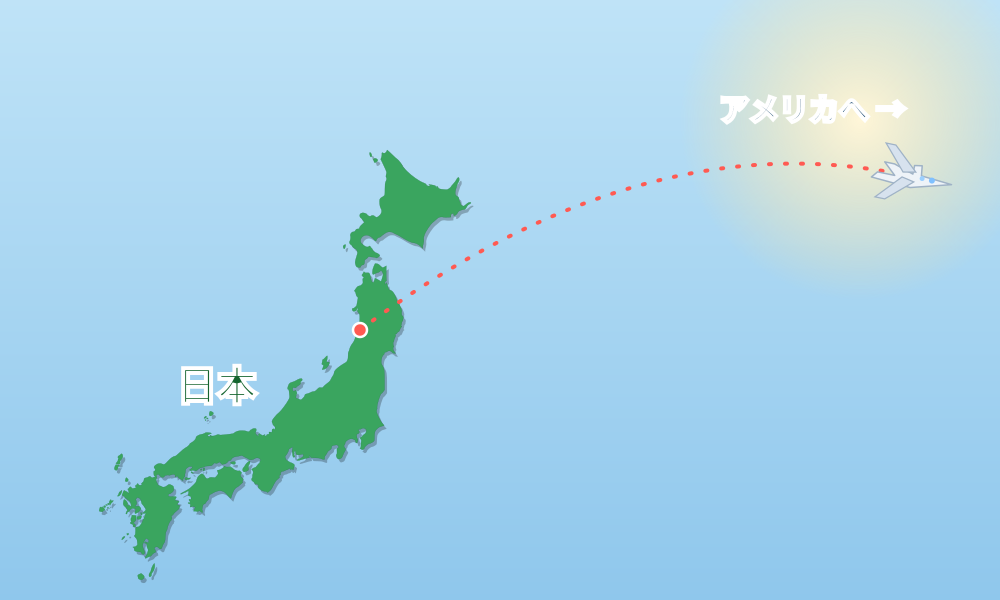
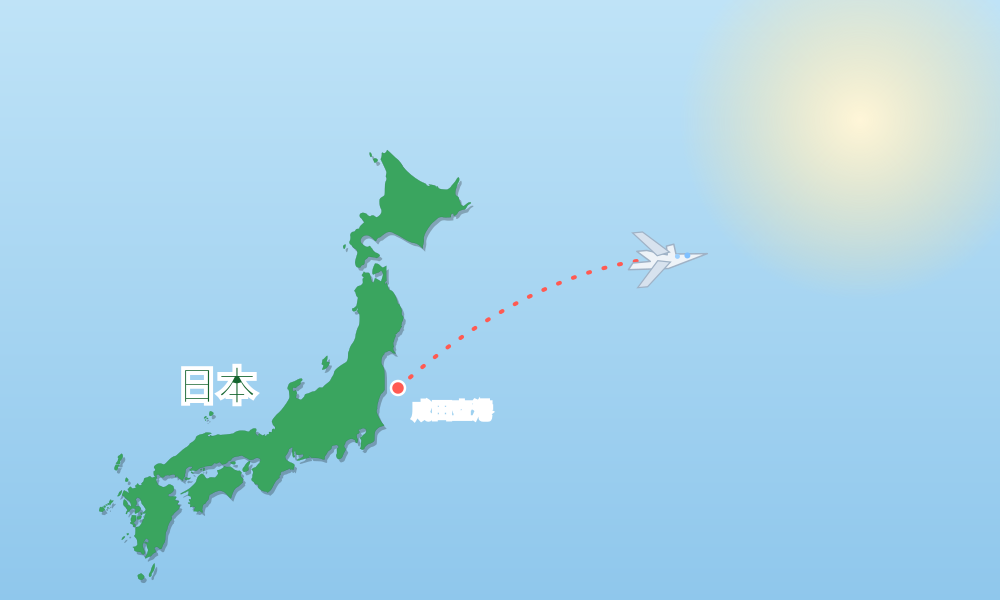
Update jet illustration: depart from Narita, shorten flight distance
出発点を成田空港に変更、「アメリカへ」テキストを削除、機体を日本に近い
約半分の距離に短縮。

Claude-Session: https://claude.ai/code/session_01Kg4gHG9qE31FJUM2AMLmoU

diff --git a/eyecatch/make_japan_to_america.py b/eyecatch/make_japan_to_america.py
@@ -16,11 +16,10 @@ JP_GROUP = open("/tmp/jp_group.txt").read()
 JP_SCALE = 430 / 1024
 JP_TX, JP_TY = 70, 150
 
-# 飛行ルート（日本付近→右上のアメリカ方面）
-# 始点：本州あたり、終点：右上の画面外手前
-PX0, PY0 = 360, 330          # 出発（日本）
-PCX, PCY = 640, 120          # 制御点（弧）
-PX1, PY1 = 905, 175          # 機体の現在位置（アメリカへ向かう途中）
+# 飛行ルート（成田空港→アメリカ方面）。機体は日本に近い半分の距離に短縮。
+PX0, PY0 = 398, 388          # 出発（成田空港）
+PCX, PCY = 530, 270          # 制御点（弧）
+PX1, PY1 = 660, 258          # 機体の現在位置（アメリカへ向かう途中）
 
 JET = '''<g transform="translate({x},{y}) rotate({rot}) scale(1.25)">
   <path d="M38,0 L6,9 -26,7 -22,2 -8,2 -18,-7 -10,-7 6,-2 6,-9 12,-10 13,-2 Z"
@@ -69,9 +68,9 @@ def build_svg():
   <text x="{JP_TX+150}" y="{JP_TY+250}" font-family="Noto Sans CJK JP, sans-serif"
         font-size="40" font-weight="bold" fill="#16652f" text-anchor="middle"
         stroke="#ffffff" stroke-width="4" paint-order="stroke">日本</text>
-  <text x="905" y="120" font-family="Noto Sans CJK JP, sans-serif" font-size="30"
-        font-weight="bold" fill="#16466e" text-anchor="end"
-        stroke="#ffffff" stroke-width="4" paint-order="stroke">アメリカへ →</text>
+  <text x="{PX0+14}" y="{PY0+30}" font-family="Noto Sans CJK JP, sans-serif" font-size="20"
+        font-weight="bold" fill="#16466e" text-anchor="start"
+        stroke="#ffffff" stroke-width="3.5" paint-order="stroke">成田空港</text>
 </svg>'''
 
 